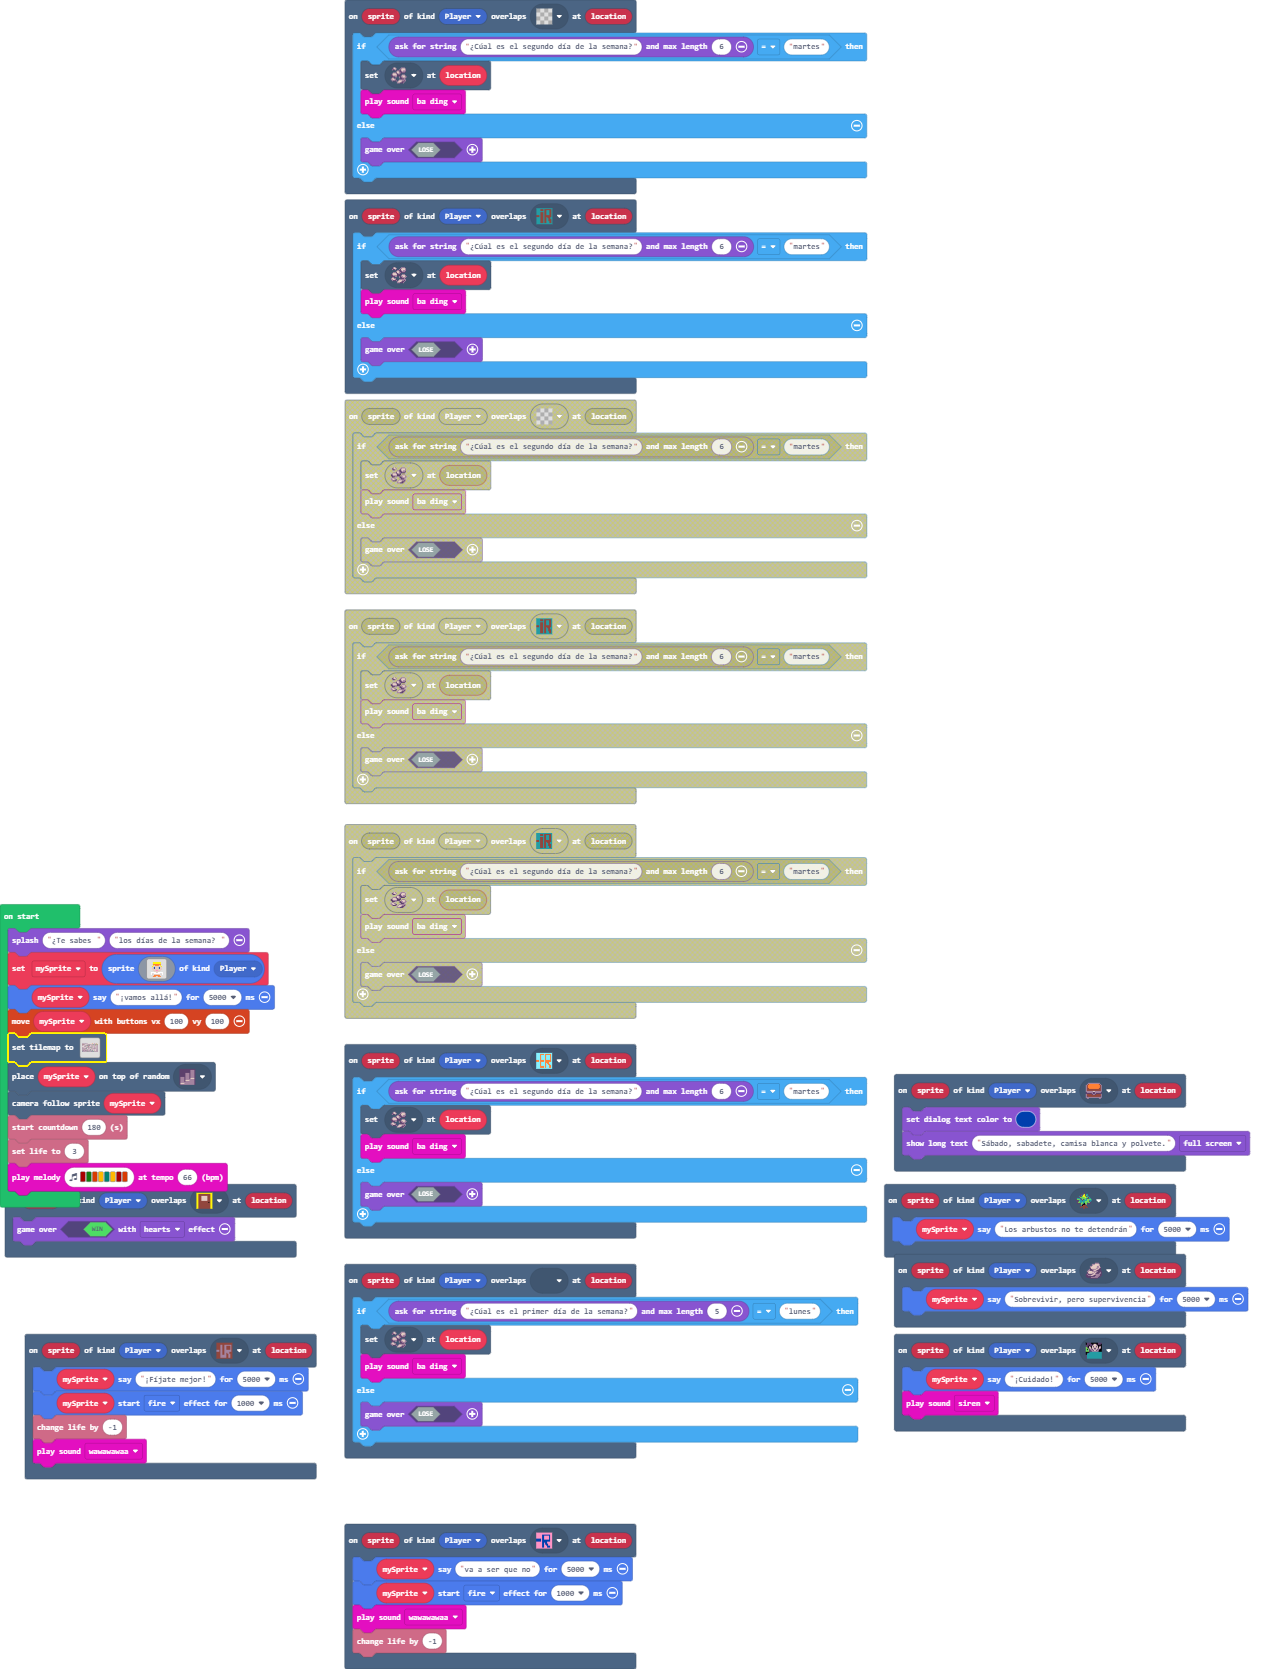
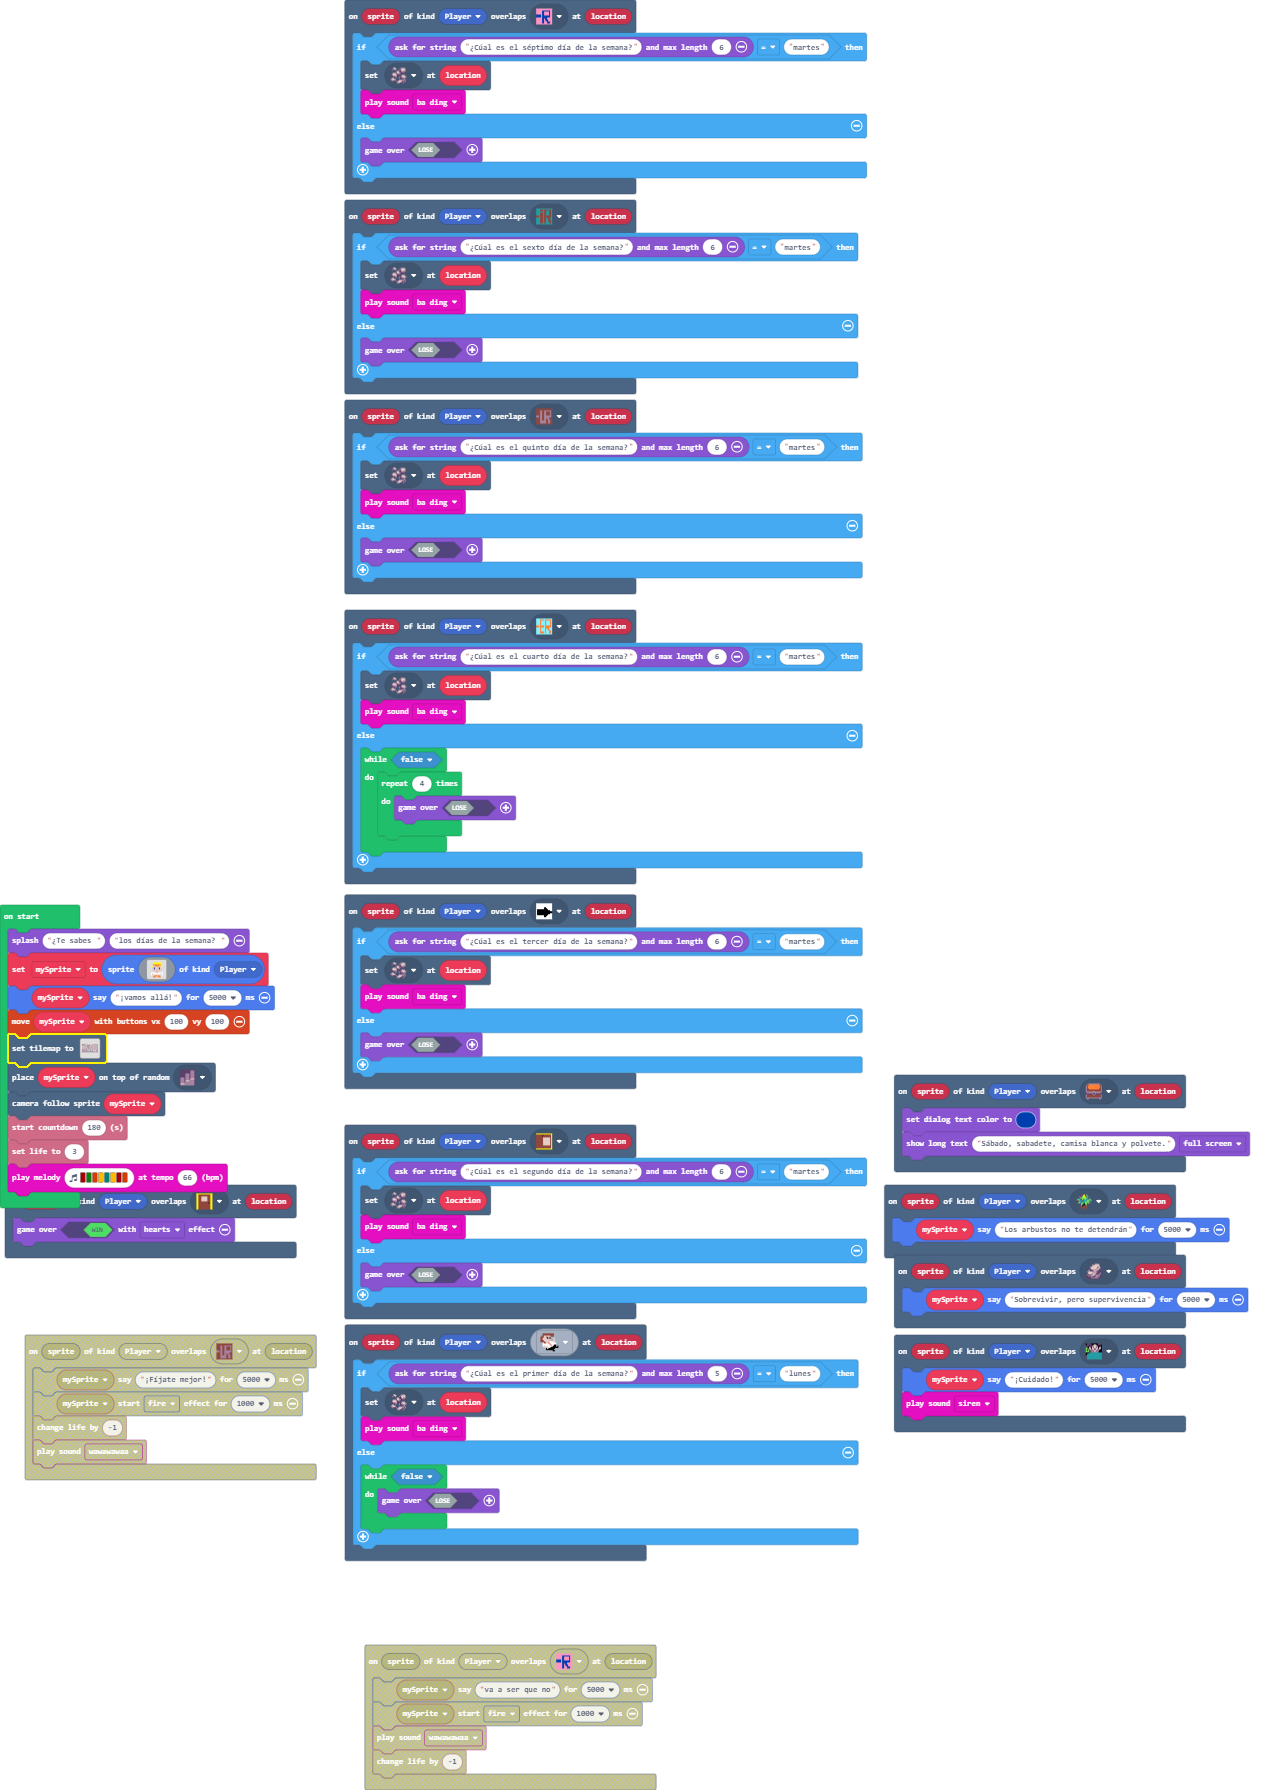
Update main.blocks, main.ts, tilemap.g.jres, tilemap.g.ts

diff --git a/main.ts b/main.ts
@@ -1,14 +1,24 @@
 scene.onOverlapTile(SpriteKind.Player, myTiles.tile2, function (sprite, location) {
     game.over(true, effects.hearts)
 })
+scene.onOverlapTile(SpriteKind.Player, myTiles.tile3, function (sprite, location) {
+    if (game.askForString("¿Cúal es el tercer día de la semana?", 6) == "martes") {
+        tiles.setTileAt(location, sprites.castle.rock2)
+        music.baDing.play()
+    } else {
+        game.over(false)
+    }
+})
 scene.onOverlapTile(SpriteKind.Player, sprites.castle.rock1, function (sprite, location) {
     mySprite.say("Sobrevivir, pero supervivencia", 5000)
 })
 scene.onOverlapTile(SpriteKind.Player, myTiles.tile8, function (sprite, location) {
-    mySprite.say("¡Fíjate mejor!", 5000)
-    mySprite.startEffect(effects.fire, 1000)
-    info.changeLifeBy(-1)
-    music.wawawawaa.play()
+    if (game.askForString("¿Cúal es el quinto día de la semana?", 6) == "martes") {
+        tiles.setTileAt(location, sprites.castle.rock2)
+        music.baDing.play()
+    } else {
+        game.over(false)
+    }
 })
 scene.onOverlapTile(SpriteKind.Player, sprites.castle.saplingPine, function (sprite, location) {
     mySprite.say("Los arbustos no te detendrán", 5000)
@@ -17,20 +27,12 @@ scene.onOverlapTile(SpriteKind.Player, sprites.builtin.crowd4, function (sprite,
     mySprite.say("¡Cuidado!", 5000)
     music.siren.play()
 })
-scene.onOverlapTile(SpriteKind.Player, myTiles.tile9, function (sprite, location) {
-    if (game.askForString("¿Cúal es el primer día de la semana?", 5) == "lunes") {
-        tiles.setTileAt(location, sprites.castle.rock2)
-        music.baDing.play()
-    } else {
-        game.over(false)
-    }
-})
 scene.onOverlapTile(SpriteKind.Player, sprites.dungeon.chestClosed, function (sprite, location) {
     game.setDialogTextColor(8)
     game.showLongText("Sábado, sabadete, camisa blanca y polvete.", DialogLayout.Full)
 })
 scene.onOverlapTile(SpriteKind.Player, myTiles.tile7, function (sprite, location) {
-    if (game.askForString("¿Cúal es el segundo día de la semana?", 6) == "martes") {
+    if (game.askForString("¿Cúal es el sexto día de la semana?", 6) == "martes") {
         tiles.setTileAt(location, sprites.castle.rock2)
         music.baDing.play()
     } else {
@@ -38,14 +40,18 @@ scene.onOverlapTile(SpriteKind.Player, myTiles.tile7, function (sprite, location
     }
 })
 scene.onOverlapTile(SpriteKind.Player, myTiles.tile6, function (sprite, location) {
-    if (game.askForString("¿Cúal es el segundo día de la semana?", 6) == "martes") {
+    if (game.askForString("¿Cúal es el cuarto día de la semana?", 6) == "martes") {
         tiles.setTileAt(location, sprites.castle.rock2)
         music.baDing.play()
     } else {
-        game.over(false)
+        while (false) {
+            for (let index = 0; index < 4; index++) {
+                game.over(false)
+            }
+        }
     }
 })
-scene.onOverlapTile(SpriteKind.Player, myTiles.transparency16, function (sprite, location) {
+scene.onOverlapTile(SpriteKind.Player, myTiles.tile1, function (sprite, location) {
     if (game.askForString("¿Cúal es el segundo día de la semana?", 6) == "martes") {
         tiles.setTileAt(location, sprites.castle.rock2)
         music.baDing.play()
@@ -54,10 +60,22 @@ scene.onOverlapTile(SpriteKind.Player, myTiles.transparency16, function (sprite,
     }
 })
 scene.onOverlapTile(SpriteKind.Player, myTiles.tile5, function (sprite, location) {
-    mySprite.say("va a ser que no", 5000)
-    mySprite.startEffect(effects.fire, 1000)
-    music.wawawawaa.play()
-    info.changeLifeBy(-1)
+    if (game.askForString("¿Cúal es el séptimo día de la semana?", 6) == "martes") {
+        tiles.setTileAt(location, sprites.castle.rock2)
+        music.baDing.play()
+    } else {
+        game.over(false)
+    }
+})
+scene.onOverlapTile(SpriteKind.Player, myTiles.transparency16, function (sprite, location) {
+    if (game.askForString("¿Cúal es el primer día de la semana?", 5) == "lunes") {
+        tiles.setTileAt(location, sprites.castle.rock2)
+        music.baDing.play()
+    } else {
+        while (false) {
+            game.over(false)
+        }
+    }
 })
 let mySprite: Sprite = null
 game.splash("¿Te sabes ", "los días de la semana? ")
@@ -94,7 +112,7 @@ tiles.setTilemap(tiles.createTilemap(hex`17000c000802020702020209010101010101011
     . . . 2 . . . . 2 2 2 . 2 2 2 . 2 . 2 2 . . . 
     . 2 2 2 2 2 2 . 2 . . . . . . . 2 . 2 2 2 2 . 
     . . . . . . . . 2 . . . . . 2 . . . . . . . . 
-    `, [myTiles.tile0,sprites.builtin.brick,sprites.vehicle.roadHorizontal,sprites.vehicle.roadIntersection1,sprites.vehicle.roadVertical,sprites.vehicle.roadTurn4,sprites.dungeon.stairLarge,sprites.vehicle.roadIntersection3,sprites.vehicle.roadTurn1,sprites.vehicle.roadTurn2,sprites.vehicle.roadTurn3,sprites.vehicle.roadIntersection2,sprites.castle.shrub,sprites.castle.rock0,sprites.castle.rock2,sprites.castle.rock1,sprites.vehicle.roadIntersection4,sprites.castle.saplingPine,sprites.builtin.crowd1,sprites.dungeon.chestClosed,sprites.dungeon.purpleSwitchDown,sprites.dungeon.collectibleRedCrystal,myTiles.tile2,myTiles.tile3,myTiles.tile5,myTiles.tile6,myTiles.tile7,myTiles.tile8,sprites.builtin.crowd4,myTiles.transparency16], TileScale.Sixteen))
+    `, [myTiles.tile0,sprites.builtin.brick,sprites.vehicle.roadHorizontal,sprites.vehicle.roadIntersection1,sprites.vehicle.roadVertical,sprites.vehicle.roadTurn4,sprites.dungeon.stairLarge,sprites.vehicle.roadIntersection3,sprites.vehicle.roadTurn1,sprites.vehicle.roadTurn2,sprites.vehicle.roadTurn3,sprites.vehicle.roadIntersection2,sprites.castle.shrub,sprites.castle.rock0,sprites.castle.rock2,sprites.castle.rock1,sprites.vehicle.roadIntersection4,sprites.castle.saplingPine,sprites.builtin.crowd1,sprites.dungeon.chestClosed,sprites.dungeon.purpleSwitchDown,sprites.dungeon.collectibleRedCrystal,myTiles.tile2,myTiles.tile3,myTiles.tile5,myTiles.tile6,myTiles.tile7,myTiles.tile8,sprites.builtin.crowd4,myTiles.transparency16,myTiles.tile9], TileScale.Sixteen))
 tiles.placeOnRandomTile(mySprite, sprites.dungeon.stairLarge)
 scene.cameraFollowSprite(mySprite)
 info.startCountdown(180)

diff --git a/tilemap.g.ts b/tilemap.g.ts
@@ -22,6 +22,8 @@ namespace myTiles {
     export const tile8 = image.ofBuffer(hex``);
     //% fixedInstance jres blockIdentity=images._tile
     export const tile9 = image.ofBuffer(hex``);
+    //% fixedInstance jres blockIdentity=images._tile
+    export const tile10 = image.ofBuffer(hex``);
 
 }
 // Auto-generated code. Do not edit.
